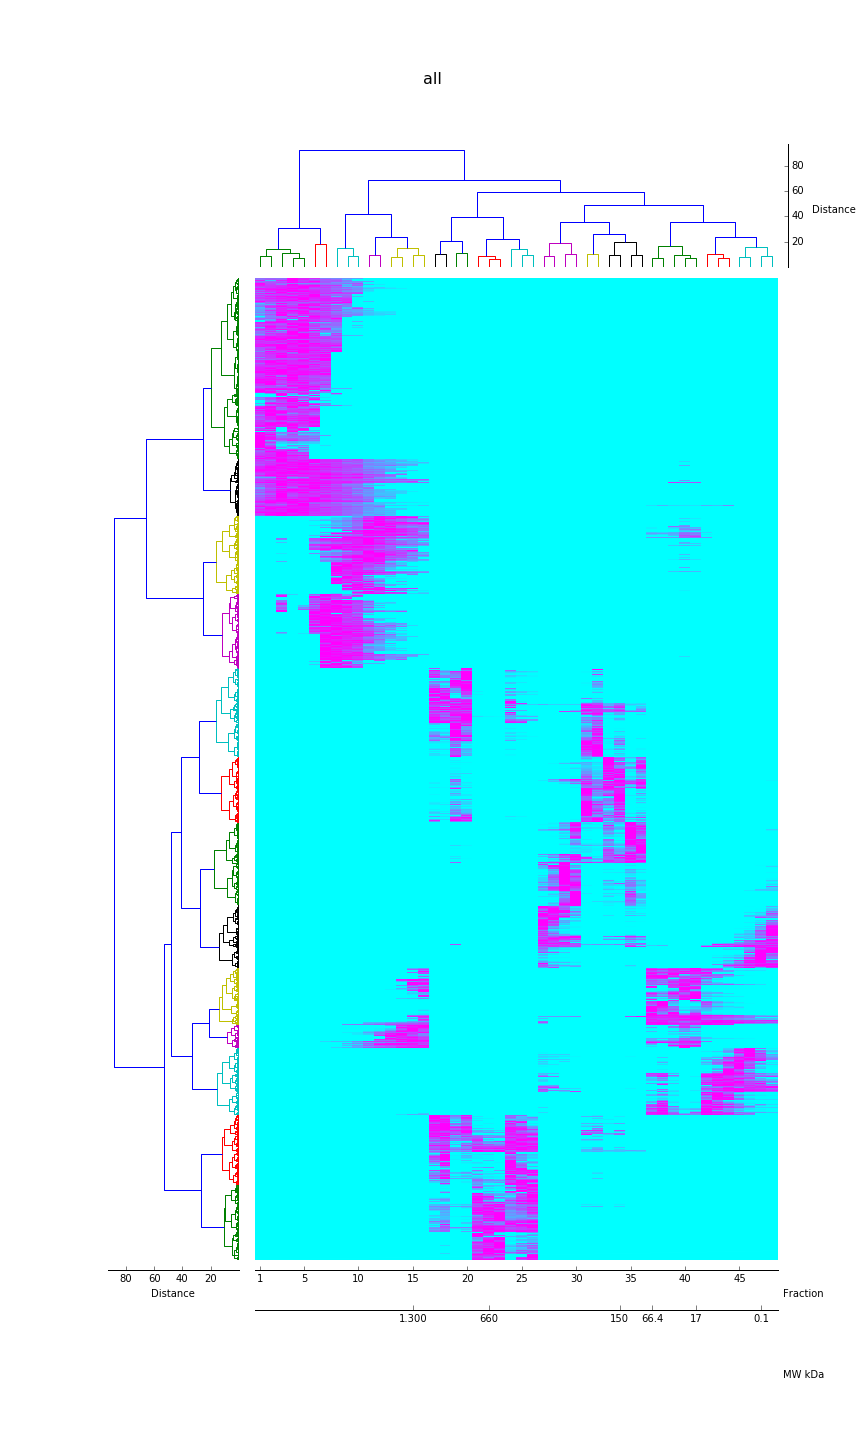
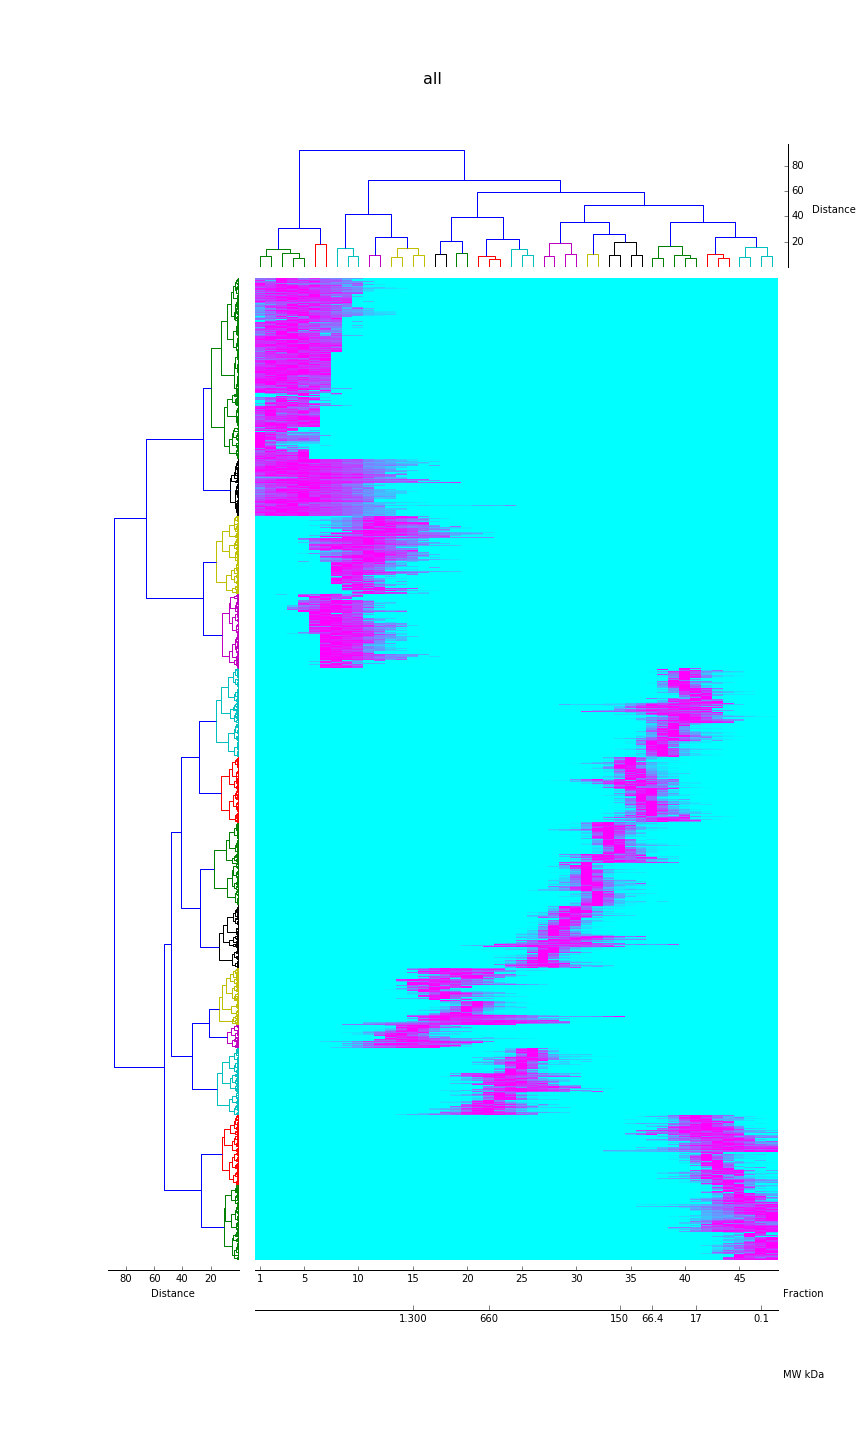
add documentation to some function parameters

diff --git a/make_fig.py b/make_fig.py
@@ -219,7 +219,7 @@ if __name__ == '__main__':
          method='ward', 
          metric='euclidean',
          cluster_columns = True,
-         order_row_and_columns= True,
+         order_row_and_columns= False,
          color_map_id='cool',
          figsize=(12,12),
          cut_distance_cols=2,
@@ -244,7 +244,7 @@ if __name__ == '__main__':
          method='ward', 
          metric='euclidean',
          cluster_columns = True,
-         order_row_and_columns= True,
+         order_row_and_columns= False,
          color_map_id='cool',
          figsize=(12, 20),
          cut_distance_cols=20,
